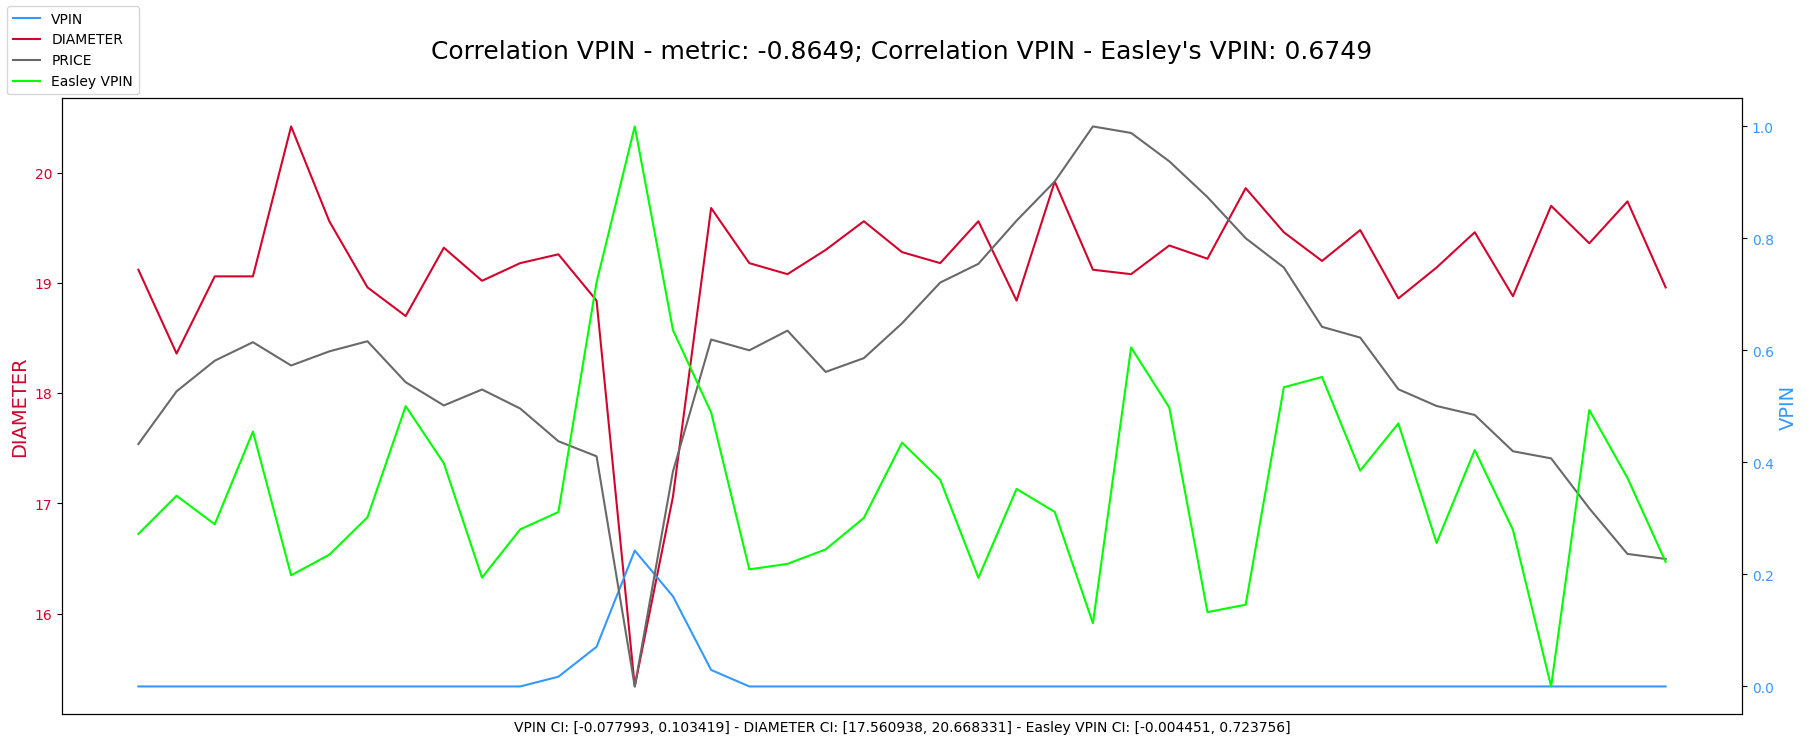
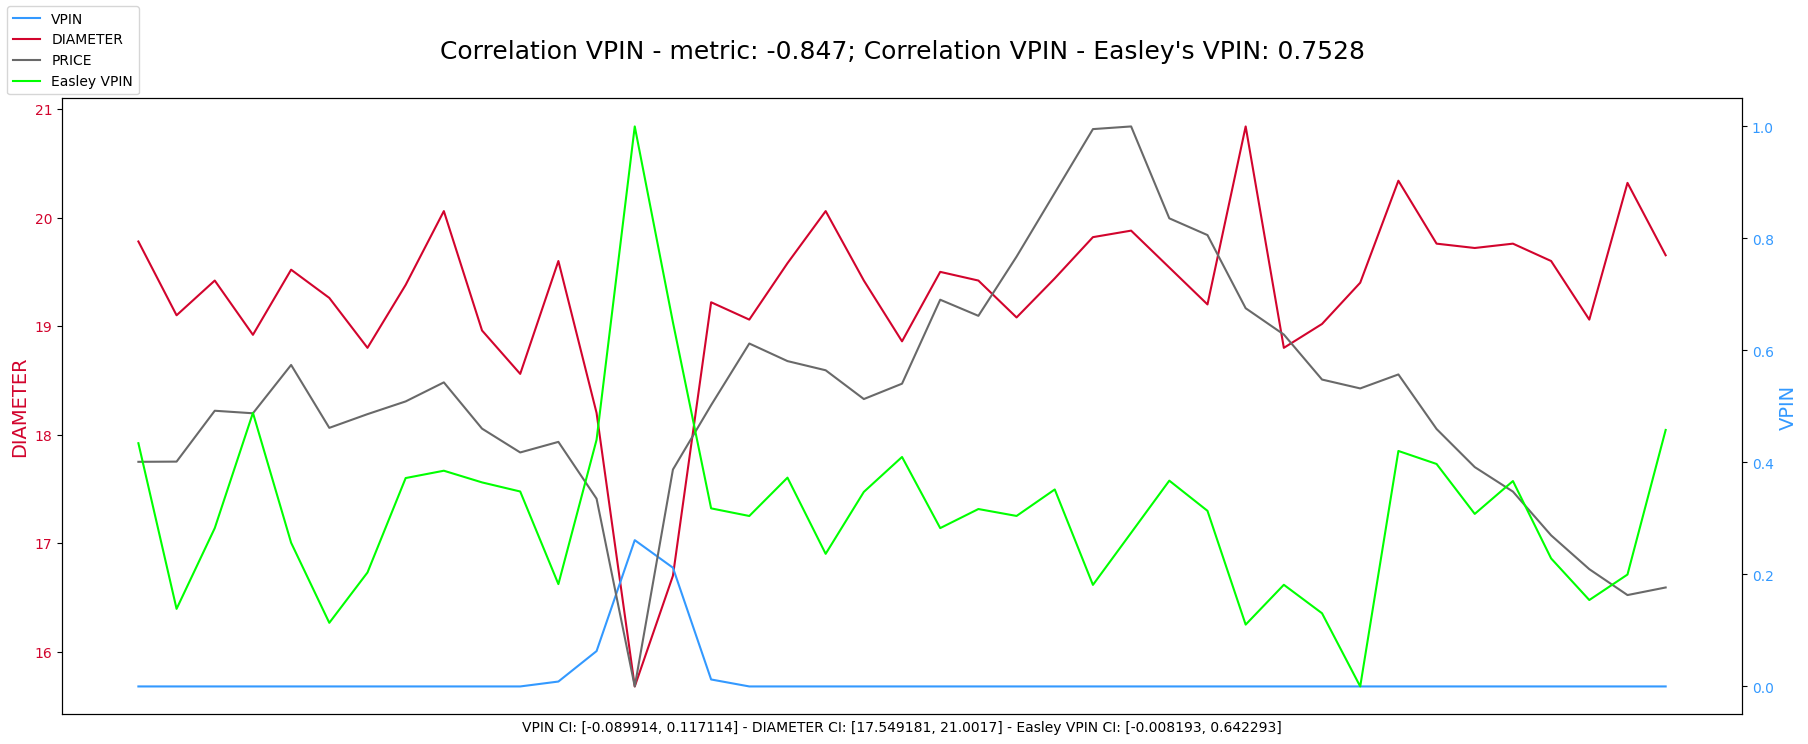
add 1

diff --git a/plots/monte-carlo/graph_metrics.py b/plots/monte-carlo/graph_metrics.py
@@ -8,8 +8,14 @@ import sys
 
 
 def rolling_correlation(Y1, Y2, window_size):
+    if len(Y1) != len(Y2):
+        raise ValueError("Y1 and Y2 must be the same length")
+
     df = pd.DataFrame({'Y1': Y1, 'Y2': Y2})
-    return df['Y1'].rolling(window=window_size).corr(df['Y2'])
+    rolling_corr = df['Y1'].rolling(window=window_size).corr(df['Y2'])
+    rolling_corr = rolling_corr.dropna()
+    rolling_corr = rolling_corr[rolling_corr != 0]
+    return rolling_corr
 
 def plot_metrics(X, Y1, Y2, Y3, Y4, metric1, metric2, metric3, metric4, window_size):
     # Y1 = VPIN
@@ -423,7 +429,7 @@ if __name__ == '__main__':
         e_vpin_norm_small = (e_vpin_small - np.min(e_vpin_small)) / (np.max(e_vpin_small) - np.min(e_vpin_small))
 
         WINDOW_SIZE_BIG = 40 # Low frequency
-        WINDOW_SIZE_SMALL = 10 # High frequency
+        WINDOW_SIZE_SMALL = 120 # High frequency
 
         # BIG
         plot_metrics(x_axis_big, x_axis_VPIN_big, y_axis_assortativity, y_axis_PRICE_big, e_vpin_norm_big,
